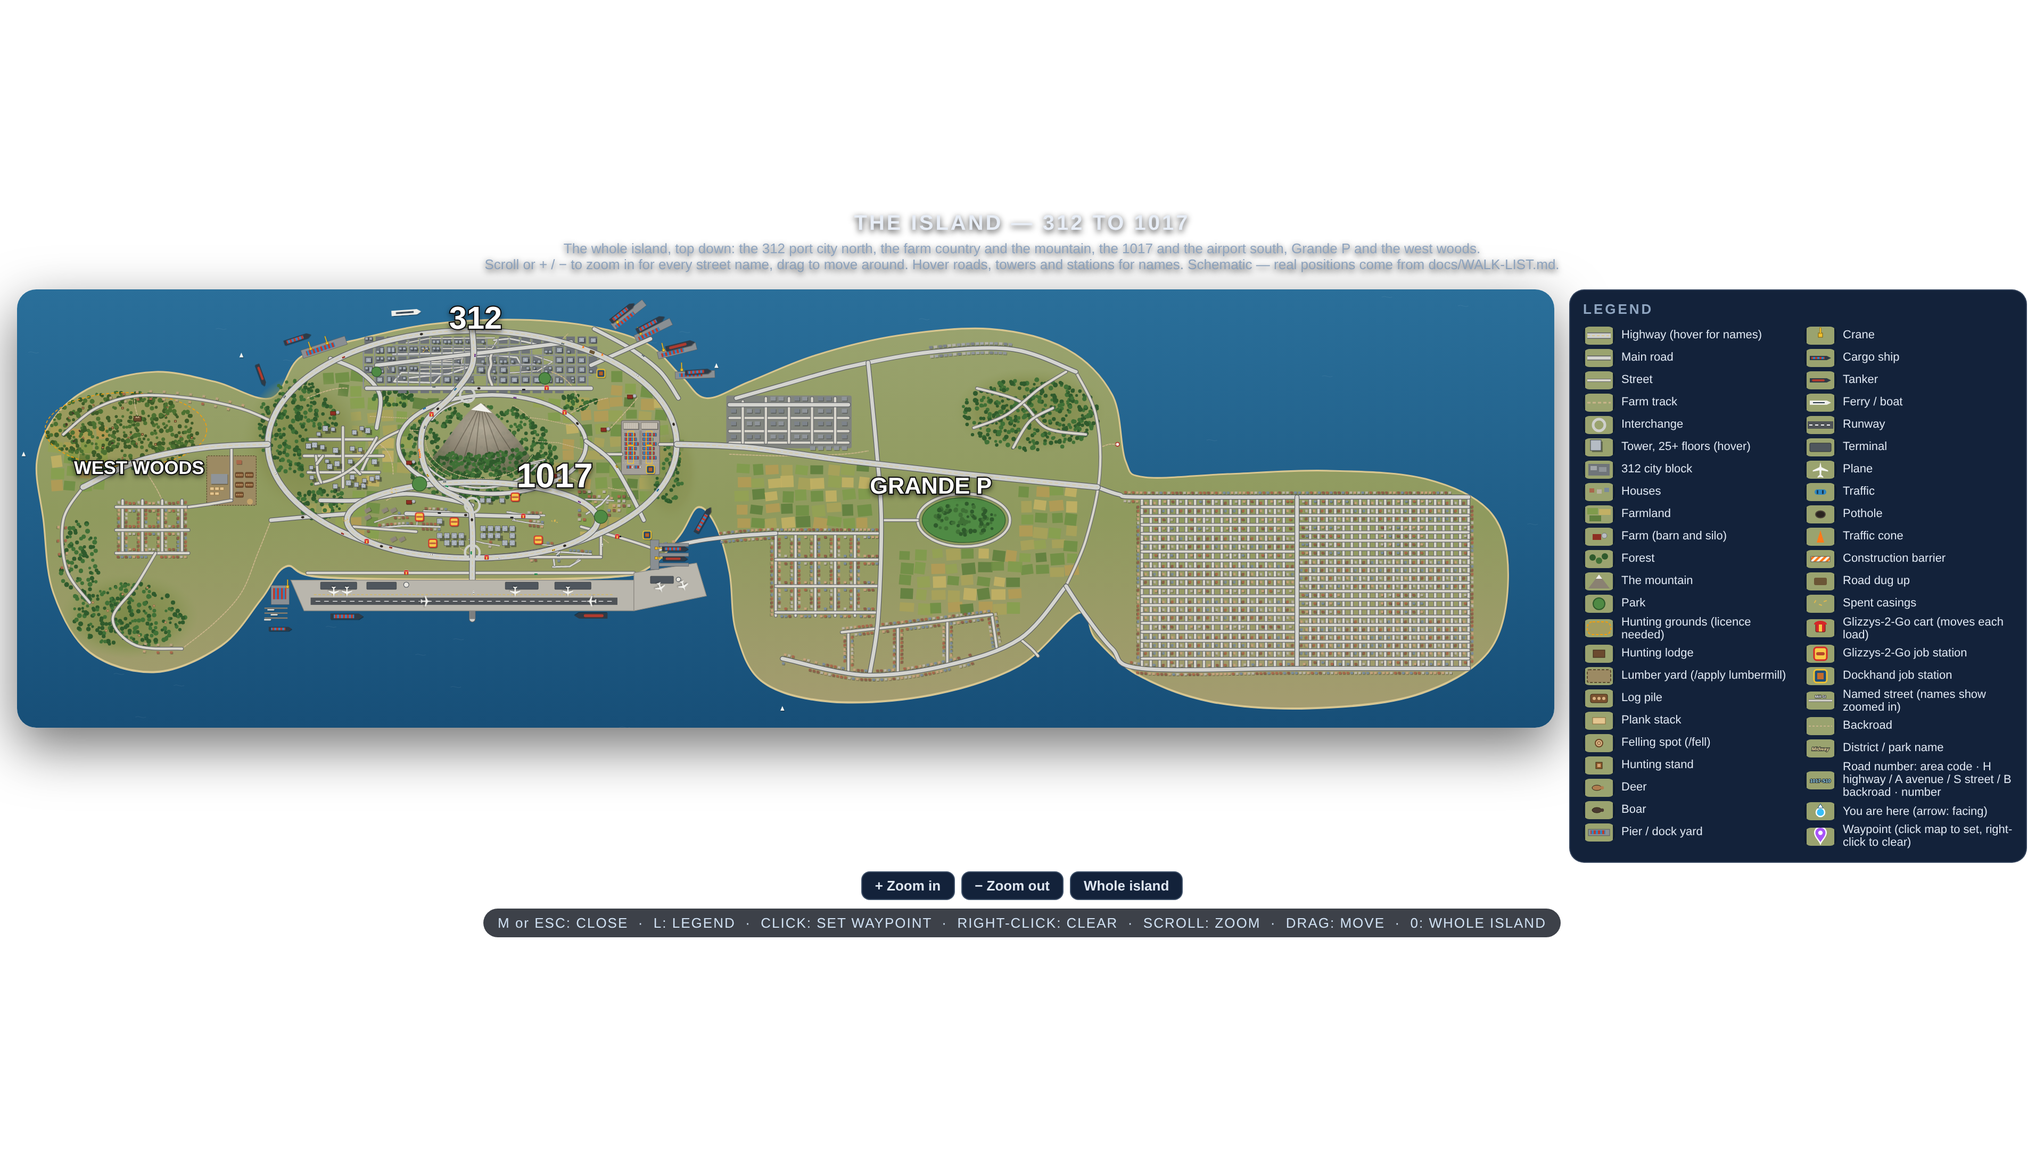
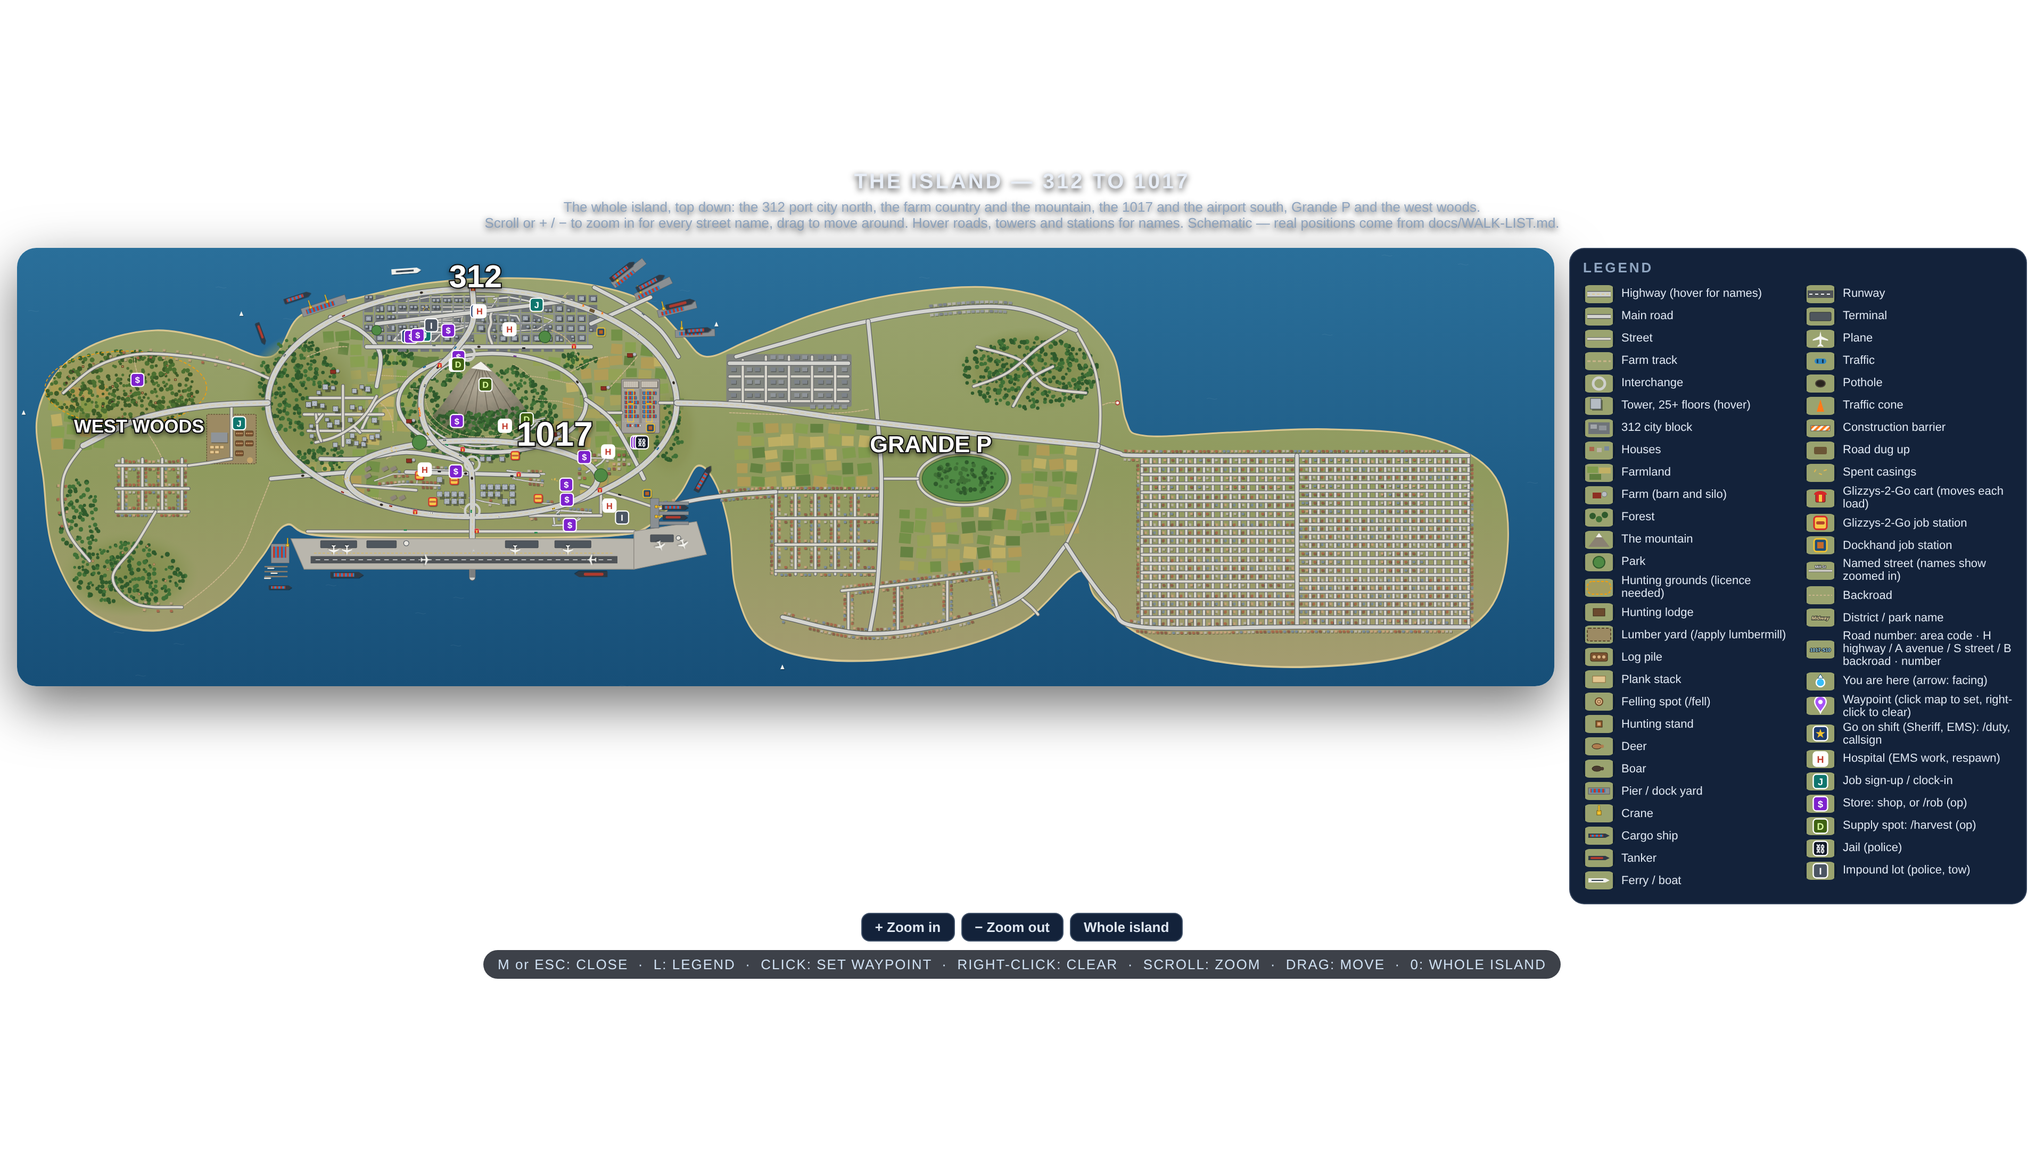
In-game map: show every job, shift and op
A work layer (world-map/html/work.js, generated by tools/gen-work-map.js
straight from js-snippets) draws the places the island doesn't:
- Sheriff and EMS shift stations;
- job sign-ups for mechanic, taxi and the lumber yard office;
- 7 hospitals and 13 stores (shop or /rob);
- 3 drug supply spots, the jail and 2 impound lots.

Each marker's hover text says what to do there. The legend gains a line
per kind, and the legend still fits with no scrolling.

sync-from-island puts the layer's script tag back whenever it copies the
island's map page. The manifest ships work.js. A test makes sure every
station, store, supply spot, hospital and lot is on the map.

Claude-Session: https://claude.ai/code/session_01FagBtygwPmHUod4bPZTnD1

Changed region(s): [[0.0, 0.1551, 1.0, 0.8685]]

diff --git a/tools/gen-work-map.js b/tools/gen-work-map.js
@@ -1,0 +1,145 @@
+#!/usr/bin/env node
+// ============================================================
+// tools/gen-work-map.js — every job, shift and op on the in-game map
+//
+// The island draws the places it builds (the Glizzys-2-Go and dockhand
+// stations, the lumber yard, the hunting grounds). Everything else you
+// can work at lives in the game core, in js-snippets: where you go on
+// shift, where each job signs you up, the stores you can hold up, the
+// supply spots, the jail and the impound lots. This reads them straight
+// from those modules and writes world-map/html/work.js, a layer the map
+// draws on top of itself, so the map can never disagree with the game.
+//
+//   node tools/gen-work-map.js          (npm run gen:work-map)
+//
+// work.js is a separate file on purpose: tools/sync-from-island.js
+// replaces index.html with the island's, and puts the one <script> tag
+// for this layer back each time (addWorkLayer below).
+// ============================================================
+
+const fs = require("fs");
+const path = require("path");
+
+const REPO = path.join(__dirname, "..");
+const js = (m) => require(path.join(REPO, "js-snippets", m));
+const OUT = path.join(REPO, "world-map", "html", "work.js");
+const TAG = '<script src="work.js"></script>';
+
+// What each kind looks like, and the line it gets in the legend.
+const KINDS = {
+    shift:    { badge: "★", fill: "#1d3a6e", ink: "#f2c230", legend: "Go on shift (Sheriff, EMS): /duty, callsign" },
+    hospital: { badge: "H", fill: "#ffffff", ink: "#c0392b", legend: "Hospital (EMS work, respawn)" },
+    job:      { badge: "J", fill: "#0f766e", ink: "#ffffff", legend: "Job sign-up / clock-in" },
+    store:    { badge: "$", fill: "#7e22ce", ink: "#ffffff", legend: "Store: shop, or /rob (op)" },
+    supply:   { badge: "D", fill: "#3f6212", ink: "#d9f99d", legend: "Supply spot: /harvest (op)" },
+    jail:     { badge: "⛓", fill: "#111827", ink: "#e5e7eb", legend: "Jail (police)" },
+    impound:  { badge: "I", fill: "#4b5563", ink: "#ffffff", legend: "Impound lot (police, tow)" },
+};
+
+function collect() {
+    const { JOBS } = js("jobs.js");
+    const { DEPARTMENTS } = js("shifts.js");
+    const { SHOPS } = js("shops.js");
+    const { HOSPITALS } = js("medical.js");
+    const { LOTS } = js("impound.js");
+    const { JAIL } = js("police.js");
+    const { SUPPLY_SPOTS, DRUGS } = js("drugs.js");
+    const { YARD } = js("lumbermill.js");
+    const out = [];
+    const add = (kind, label, pos, detail) => out.push({ kind, label, detail, x: pos.x, y: pos.y });
+
+    // Jobs with a station: departments run shifts (callsigns), the rest clock in.
+    for (const [name, job] of Object.entries(JOBS)) {
+        for (const pos of Object.values(job.stations || {})) {
+            const pay = job.goldPerHour ? `${job.goldPerHour} gold/hr` : job.goldPerPaycheck ? `${job.goldPerPaycheck} gold a paycheck` : "";
+            const grades = job.grades.map((g) => g.label).join(" → ");
+            if (DEPARTMENTS[name]) add("shift", job.label, pos, `Go on shift: /duty (callsign ${DEPARTMENTS[name].prefix}-#). ${grades}. ${pay}`);
+            else add("job", job.label, pos, `${job.openHire ? "/apply " + name : "Hired by staff"}, then /duty. ${grades}. ${pay}`);
+        }
+    }
+    const lumber = JOBS.lumbermill;
+    add("job", lumber.label, YARD.office, `/apply lumbermill, then /duty. ${lumber.goldPerHour} gold/hr; /fell, /mill at the saw, /sellplanks here`);
+
+    for (const list of Object.values(HOSPITALS)) for (const h of list) add("hospital", h.label, h.pos, "EMS revive work; where you wake up");
+    for (const s of Object.values(SHOPS)) add("store", s.label, s.pos, "Shop here. Holding it up: /rob (needs police on duty)");
+    for (const s of SUPPLY_SPOTS) {
+        const product = Object.values(DRUGS).find((d) => d.raw === s.raw);
+        add("supply", s.label, s.pos, `/harvest ${s.raw}${product ? ` → /process into ${product.label} at your crew base, then /deal` : ""}`);
+    }
+    add("jail", "County Jail", JAIL.cell, "Where /jail sends people");
+    for (const l of LOTS) add("impound", l.label, l.pos, "Towed cars; pay the fee to get yours back");
+    return out;
+}
+
+// The browser half: draws the markers through the map's own gameToMap, keeps them a
+// steady size on screen as you zoom, and adds their lines to the legend.
+function layerScript(spots) {
+    return `// world-map/html/work.js — generated by tools/gen-work-map.js from js-snippets. Don't edit by hand.
+// Every job, shift and op the game core knows, drawn on the in-game map.
+(function () {
+  const KINDS = ${JSON.stringify(KINDS)};
+  const SPOTS = ${JSON.stringify(spots)};
+  const NS = "http://www.w3.org/2000/svg";
+  const svg = document.getElementById("island");
+  if (!svg || !window.gameToMap) return;
+  const layer = document.createElementNS(NS, "g");
+  layer.setAttribute("id", "work");
+  const anchor = document.getElementById("waypoint");
+  svg.insertBefore(layer, anchor && anchor.parentNode === svg ? anchor : null);   // under you and the waypoint
+
+  const badge = (k, size) => {
+    const g = document.createElementNS(NS, "g");
+    g.innerHTML = '<rect x="-9" y="-9" width="18" height="18" rx="4" fill="' + k.fill + '" stroke="#fff" stroke-width="1.6"/>' +
+      '<text y="4.5" text-anchor="middle" font-family="Arial, sans-serif" font-weight="700" font-size="' + (size || 12) + '" fill="' + k.ink + '">' + k.badge + "</text>";
+    return g;
+  };
+  const marks = SPOTS.map((s) => {
+    const m = window.gameToMap(s.x, s.y), g = badge(KINDS[s.kind]);
+    g.setAttribute("class", "work-mark work-" + s.kind);
+    const t = document.createElementNS(NS, "title");
+    t.textContent = s.label + (m.off ? " (off the drawn streets)" : "") + "\\n" + s.detail;
+    g.appendChild(t);
+    layer.appendChild(g);
+    return { g, x: m.x, y: m.y };
+  });
+  // nudge markers that land on top of each other apart, so each can be hovered
+  for (let i = 0; i < marks.length; i++) for (let j = 0; j < i; j++) {
+    if (Math.abs(marks[i].x - marks[j].x) < 6 && Math.abs(marks[i].y - marks[j].y) < 6) marks[i].x = marks[j].x + 7;
+  }
+  const W = 4660;
+  const place = () => {
+    const vb = (svg.getAttribute("viewBox") || "0 0 " + W).split(/\\s+/).map(Number);
+    const k = 2.2 / Math.pow(W / (vb[2] || W), 0.75);   // about 13 px on screen for the whole island, growing a little as you zoom
+    for (const m of marks) m.g.setAttribute("transform", "translate(" + m.x + " " + m.y + ") scale(" + k + ")");
+  };
+  place();
+  new MutationObserver(place).observe(svg, { attributes: true, attributeFilter: ["viewBox"] });
+
+  // legend lines for the kinds on the map
+  const ul = document.querySelector(".legend ul");
+  if (ul) for (const k of Object.values(KINDS)) {
+    const li = document.createElement("li");
+    li.innerHTML = '<svg class="sw" viewBox="0 0 52 34"><rect width="52" height="34" fill="#9aa36f"/>' +
+      '<g transform="translate(26 17) scale(1.5)">' + badge(k, 12).innerHTML + "</g></svg>" + k.legend;
+    ul.appendChild(li);
+  }
+})();
+`;
+}
+
+// Put the layer's <script> tag on the map page (idempotent). Used here and by sync-from-island.
+function addWorkLayer(html) {
+    if (html.includes(TAG)) return html;
+    return html.replace("</body>", `${TAG}\n</body>`);
+}
+
+if (require.main === module) {
+    const spots = collect();
+    fs.writeFileSync(OUT, layerScript(spots));
+    const page = path.join(REPO, "world-map", "html", "index.html");
+    fs.writeFileSync(page, addWorkLayer(fs.readFileSync(page, "utf8")));
+    const by = spots.reduce((a, s) => ((a[s.kind] = (a[s.kind] || 0) + 1), a), {});
+    console.log(`wrote world-map/html/work.js: ${spots.length} spots (${Object.entries(by).map(([k, n]) => `${n} ${k}`).join(", ")})`);
+}
+
+module.exports = { collect, addWorkLayer, KINDS, TAG };

diff --git a/world-map/html/work.js b/world-map/html/work.js
@@ -1,0 +1,50 @@
+// world-map/html/work.js — generated by tools/gen-work-map.js from js-snippets. Don't edit by hand.
+// Every job, shift and op the game core knows, drawn on the in-game map.
+(function () {
+  const KINDS = {"shift":{"badge":"★","fill":"#1d3a6e","ink":"#f2c230","legend":"Go on shift (Sheriff, EMS): /duty, callsign"},"hospital":{"badge":"H","fill":"#ffffff","ink":"#c0392b","legend":"Hospital (EMS work, respawn)"},"job":{"badge":"J","fill":"#0f766e","ink":"#ffffff","legend":"Job sign-up / clock-in"},"store":{"badge":"$","fill":"#7e22ce","ink":"#ffffff","legend":"Store: shop, or /rob (op)"},"supply":{"badge":"D","fill":"#3f6212","ink":"#d9f99d","legend":"Supply spot: /harvest (op)"},"jail":{"badge":"⛓","fill":"#111827","ink":"#e5e7eb","legend":"Jail (police)"},"impound":{"badge":"I","fill":"#4b5563","ink":"#ffffff","legend":"Impound lot (police, tow)"}};
+  const SPOTS = [{"kind":"shift","label":"Sheriff's Office","detail":"Go on shift: /duty (callsign S-#). Deputy → Sergeant → Sheriff. 45 gold a paycheck","x":-448,"y":6011},{"kind":"shift","label":"EMS","detail":"Go on shift: /duty (callsign M-#). EMT → Paramedic → Chief. 45 gold a paycheck","x":-245,"y":6325},{"kind":"job","label":"Beck's Mechanic","detail":"Hired by staff, then /duty. Apprentice → Mechanic → Owner. 40 gold a paycheck","x":-70,"y":6406},{"kind":"job","label":"Taxi","detail":"Hired by staff, then /duty. Driver → Dispatcher. 35 gold a paycheck","x":-400,"y":6030},{"kind":"job","label":"Hollow Creek Lumber","detail":"/apply lumbermill, then /duty. 13 gold/hr; /fell, /mill at the saw, /sellplanks here","x":-6894,"y":-6564},{"kind":"hospital","label":"Red Clay General","detail":"EMS revive work; where you wake up","x":298,"y":-584},{"kind":"hospital","label":"Peach Ridge Medical","detail":"EMS revive work; where you wake up","x":-912,"y":-870},{"kind":"hospital","label":"Pillbrooke Medical","detail":"EMS revive work; where you wake up","x":307,"y":-1441},{"kind":"hospital","label":"Harvest County Clinic","detail":"EMS revive work; where you wake up","x":1839,"y":3672},{"kind":"hospital","label":"Dust Road Medical","detail":"EMS revive work; where you wake up","x":1690,"y":4780},{"kind":"hospital","label":"Lakeshore General","detail":"EMS revive work; where you wake up","x":-245,"y":6325},{"kind":"hospital","label":"Winterline Memorial","detail":"EMS revive work; where you wake up","x":-150,"y":6100},{"kind":"store","label":"Open 24 Atlanta","detail":"Shop here. Holding it up: /rob (needs police on duty)","x":25.7,"y":-1347.3},{"kind":"store","label":"Atlanta Hardware","detail":"Shop here. Holding it up: /rob (needs police on duty)","x":45,"y":-1748},{"kind":"store","label":"Open 24 GeePee","detail":"Shop here. Holding it up: /rob (needs police on duty)","x":1698,"y":4924},{"kind":"store","label":"Open 24 Chicago","detail":"Shop here. Holding it up: /rob (needs police on duty)","x":-440,"y":6005},{"kind":"store","label":"Chicago Hardware","detail":"Shop here. Holding it up: /rob (needs police on duty)","x":-420,"y":6025},{"kind":"store","label":"BigBackin' Bell","detail":"Shop here. Holding it up: /rob (needs police on duty)","x":141,"y":-673},{"kind":"store","label":"General Fools","detail":"Shop here. Holding it up: /rob (needs police on duty)","x":-707,"y":-900},{"kind":"store","label":"Shooters Armoury","detail":"Shop here. Holding it up: /rob (needs police on duty)","x":22,"y":-1110},{"kind":"store","label":"Gunworks GeePee","detail":"Shop here. Holding it up: /rob (needs police on duty)","x":1693.4,"y":3759.5},{"kind":"store","label":"Halfway Diner","detail":"Shop here. Holding it up: /rob (needs police on duty)","x":622,"y":1530},{"kind":"store","label":"Halfway Feed & Seed","detail":"Shop here. Holding it up: /rob (needs police on duty)","x":578,"y":1395},{"kind":"store","label":"Antler Lodge","detail":"Shop here. Holding it up: /rob (needs police on duty)","x":-7510,"y":-6301},{"kind":"store","label":"Gunworks Chicago","detail":"Shop here. Holding it up: /rob (needs police on duty)","x":-330.2,"y":6083.9},{"kind":"supply","label":"Backroads Field","detail":"/harvest plantleaf → /process into Green Pack at your crew base, then /deal","x":1780,"y":4420},{"kind":"supply","label":"Harvest Barn","detail":"/harvest plantleaf → /process into Green Pack at your crew base, then /deal","x":1905,"y":3790},{"kind":"supply","label":"Dust Road Shack","detail":"/harvest rawpaste → /process into White Pack at your crew base, then /deal","x":1690,"y":4790},{"kind":"jail","label":"County Jail","detail":"Where /jail sends people","x":1691,"y":2565},{"kind":"impound","label":"Chicago Impound","detail":"Towed cars; pay the fee to get yours back","x":-380,"y":6150},{"kind":"impound","label":"Atlanta Impound","detail":"Towed cars; pay the fee to get yours back","x":390,"y":-1630}];
+  const NS = "http://www.w3.org/2000/svg";
+  const svg = document.getElementById("island");
+  if (!svg || !window.gameToMap) return;
+  const layer = document.createElementNS(NS, "g");
+  layer.setAttribute("id", "work");
+  const anchor = document.getElementById("waypoint");
+  svg.insertBefore(layer, anchor && anchor.parentNode === svg ? anchor : null);   // under you and the waypoint
+
+  const badge = (k, size) => {
+    const g = document.createElementNS(NS, "g");
+    g.innerHTML = '<rect x="-9" y="-9" width="18" height="18" rx="4" fill="' + k.fill + '" stroke="#fff" stroke-width="1.6"/>' +
+      '<text y="4.5" text-anchor="middle" font-family="Arial, sans-serif" font-weight="700" font-size="' + (size || 12) + '" fill="' + k.ink + '">' + k.badge + "</text>";
+    return g;
+  };
+  const marks = SPOTS.map((s) => {
+    const m = window.gameToMap(s.x, s.y), g = badge(KINDS[s.kind]);
+    g.setAttribute("class", "work-mark work-" + s.kind);
+    const t = document.createElementNS(NS, "title");
+    t.textContent = s.label + (m.off ? " (off the drawn streets)" : "") + "\n" + s.detail;
+    g.appendChild(t);
+    layer.appendChild(g);
+    return { g, x: m.x, y: m.y };
+  });
+  // nudge markers that land on top of each other apart, so each can be hovered
+  for (let i = 0; i < marks.length; i++) for (let j = 0; j < i; j++) {
+    if (Math.abs(marks[i].x - marks[j].x) < 6 && Math.abs(marks[i].y - marks[j].y) < 6) marks[i].x = marks[j].x + 7;
+  }
+  const W = 4660;
+  const place = () => {
+    const vb = (svg.getAttribute("viewBox") || "0 0 " + W).split(/\s+/).map(Number);
+    const k = 2.2 / Math.pow(W / (vb[2] || W), 0.75);   // about 13 px on screen for the whole island, growing a little as you zoom
+    for (const m of marks) m.g.setAttribute("transform", "translate(" + m.x + " " + m.y + ") scale(" + k + ")");
+  };
+  place();
+  new MutationObserver(place).observe(svg, { attributes: true, attributeFilter: ["viewBox"] });
+
+  // legend lines for the kinds on the map
+  const ul = document.querySelector(".legend ul");
+  if (ul) for (const k of Object.values(KINDS)) {
+    const li = document.createElement("li");
+    li.innerHTML = '<svg class="sw" viewBox="0 0 52 34"><rect width="52" height="34" fill="#9aa36f"/>' +
+      '<g transform="translate(26 17) scale(1.5)">' + badge(k, 12).innerHTML + "</g></svg>" + k.legend;
+    ul.appendChild(li);
+  }
+})();

diff --git a/tools/sync-from-island.js b/tools/sync-from-island.js
@@ -22,6 +22,7 @@ const REPO = path.resolve(__dirname, "..");
 const args = process.argv.slice(2);
 const dryRun = args.includes("--dry-run");
 const toIsland = args.includes("--to-island");
+const { addWorkLayer } = require("./gen-work-map");
 const island = islandPath(args);
 
 if (!island.found) {
@@ -36,8 +37,11 @@ const FILES = toIsland
 let changed = 0;
 for (const [from, to] of FILES) {
     if (!fs.existsSync(from)) { console.log(`  missing: ${from}`); continue; }
-    const same = fs.existsSync(to) && fs.readFileSync(from).equals(fs.readFileSync(to));
+    // the map page gets this repo's work layer (every job, shift and op) put back on it
+    const data = !toIsland && to.endsWith(path.join("world-map", "html", "index.html"))
+        ? Buffer.from(addWorkLayer(fs.readFileSync(from, "utf8"))) : fs.readFileSync(from);
+    const same = fs.existsSync(to) && data.equals(fs.readFileSync(to));
     console.log(`  ${same ? "same    " : "update  "} ${path.relative(toIsland ? island.path : REPO, to)}`);
-    if (!same) { changed++; if (!dryRun) { fs.mkdirSync(path.dirname(to), { recursive: true }); fs.copyFileSync(from, to); } }
+    if (!same) { changed++; if (!dryRun) { fs.mkdirSync(path.dirname(to), { recursive: true }); fs.writeFileSync(to, data); } }
 }
 console.log(dryRun ? "\nDry run — nothing copied." : changed ? `\n✓ ${changed} file(s) copied.${toIsland ? " Now regenerate and commit in fourtune-island (its README)." : " Commit them here."}` : "\n✓ Already in step.");

diff --git a/js-snippets/game.test.js b/js-snippets/game.test.js
@@ -2680,3 +2680,19 @@ test("/height and /whereami report heights; /height <road> gives a road's level"
     assert.match(game.command(at({ x: p[0], y: p[1] }), "height", ["nowhere"]).msg, /^No road called nowhere/);
     assert.equal(game.command(at({ x: 0, y: 0 }), "height").msg, "You're off the island: no heights here.");
 });
+
+test("the in-game map shows every job station, shift, store, supply spot, hospital, jail and impound lot", () => {
+    const { collect } = require("../tools/gen-work-map");
+    const labels = new Set(collect().map((s) => s.label));
+    const { JOBS } = require("./jobs");
+    for (const job of Object.values(JOBS)) if (job.stations) assert.ok(labels.has(job.label), job.label);
+    assert.ok(labels.has(JOBS.lumbermill.label));
+    for (const s of Object.values(require("./shops").SHOPS)) assert.ok(labels.has(s.label), s.label);
+    for (const s of require("./drugs").SUPPLY_SPOTS) assert.ok(labels.has(s.label), s.label);
+    for (const list of Object.values(require("./medical").HOSPITALS)) for (const h of list) assert.ok(labels.has(h.label), h.label);
+    for (const l of require("./impound").LOTS) assert.ok(labels.has(l.label), l.label);
+    const fs = require("fs"), path = require("path");
+    const html = path.join(__dirname, "..", "world-map", "html");
+    assert.ok(fs.readFileSync(path.join(html, "index.html"), "utf8").includes('<script src="work.js"></script>'));
+    assert.ok(fs.existsSync(path.join(html, "work.js")));
+});

diff --git a/world-map/html/index.html b/world-map/html/index.html
@@ -6042,5 +6042,6 @@ window.placeOnRoad();
   // so a page that failed to load can never trap the player.
   post('ready');
 </script>
+<script src="work.js"></script>
 </body>
 </html>

diff --git a/js-snippets/README.md b/js-snippets/README.md
@@ -31,6 +31,7 @@ node tools/print-streets.js [city]                # print every street the game 
 node tools/print-stores.js [city] [--stock]       # print every shop, gun shop, fuel stop and clothing store, by city
 node tools/sync-from-island.js                  # copy the island's street list and in-game map page in from fourtune-island
 node tools/gen-elevation.js                     # the island's real heights (ground, every road, every building) -> elevation-data.json + world/elevation_data.lua
+node tools/gen-work-map.js                      # every job, shift and op (stations, stores, supply, jail, impound) -> world-map/html/work.js
 ```
 
 ## What's in here
